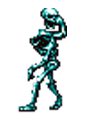
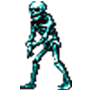
Se modifica el tamaño de los enemigos para que sea proporcional con el personaje

diff --git a/Game.js b/Game.js
@@ -3,7 +3,9 @@ window.onload = function () {
 	//El buen canvas
 	var frame = document.getElementById("canvas");
 	var graphics = frame.getContext('2d');
-	document.addEventListener("mousedown", click);
+	document.addEventListener("keydown", function(e){
+		click(e);
+	});
 
 	var points = 0;
 	var scoreTime = 0;
@@ -13,6 +15,9 @@ window.onload = function () {
 	var backImage = new Image();
 	var startEnemieSpeed = 10
 	var enemieSpeed = 10;
+
+	//HighScore
+	var highScore = 0;
 
 	//Backgrounds
 	var backDrop = {
@@ -101,6 +106,7 @@ window.onload = function () {
 
 	function draw() {
 
+		//Elementos de juego
 		graphics.clearRect(0, 0, frame.width, frame.height);
 		graphics.drawImage(backImage, 0, 0, frame.width, frame.height);
 		graphics.drawImage(backDrop.image, backDrop.x, backDrop.y);
@@ -110,31 +116,37 @@ window.onload = function () {
 		graphics.drawImage(asset1.image, asset1.x, asset1.y);
 		graphics.drawImage(asset2.image, asset2.x, asset2.y);
 		graphics.drawImage(player.image, player.x, player.y);
-		graphics.font = "bold 20px Helvetica";
+		drawEnemies();
+
+		//Texto que aparecerá en Canvas
+		graphics.font = "bold 20px Freckle Face";
 		graphics.fillStyle = "white";
 		graphics.textAlign = "center";
 		graphics.fillText("Score: " + points, frame.width / 2, 100);
-		drawEnemies();
-
+		
+		//Pintamos el HighScore
+		graphics.fillText("Best Score: " + highScore, 100, 100);
 		if (!player.alive) {
-			graphics.fillText("TryAgain", frame.width / 2, 300);
+			graphics.fillText("Press 'r' to restart" , frame.width / 2, 300);	
+			
+			//Aqui escribimos el mensaje de new Record
+			if (points > highScore) {
+				graphics.fillText("You made a new Record!!!", frame.width / 2, 400);			
+			}		
 		}
 	}
 
 
-	//Funciones para Controlar el comportamiento de player
+	//Funciones para Controlar el comportamiento de players
+	//Función del listener tambien checamos si el el jugador murió 
+	function click(e) {
 
-
-	//Función del listener
-	
-	function click() {
-		if (player.alive) {
+		if (player.alive && e.keyCode === 32) {
 			if (!player.jumping && !player.falling) {
 				player.jumping = true;
 			}
-		} else {
+		} else if(!player.alive && e.keyCode === 82 ) {
 			restartGame();
-			firstDog = true;
 			enemieSpeed = startEnemieSpeed;
 		}
 	}
@@ -174,8 +186,6 @@ window.onload = function () {
 	}
 
 	//Funciones para controlar el comportamiento de los enemigos
-
-
 	//Manage  animation
 	function manageEnemieAnimation() {
 		for (i = 0; i < enemies.length; i++) {
@@ -210,10 +220,8 @@ window.onload = function () {
 	}
 
 	//Generate packs of enemies
-
 	function generatePacksOfEnemies() {
 		var numEnemies = Math.floor(Math.random() * 6);
-		console.log(numEnemies);
 		switch (numEnemies) {
 			case 0:
 				enemies.push(new Enemie(frame.width));
@@ -266,7 +274,6 @@ window.onload = function () {
 	}
 
 	function checkPlayerCollision() {
-
 		var reduction = 30;
 		for (i = 0; i < enemies.length; i++) {
 			var testDog = enemies[i];
@@ -350,9 +357,20 @@ window.onload = function () {
 	}
 
 	function restartGame() {
+	    checkScore();
 		player.alive = true;
 		points = 0;
 		enemies = [];
+	}
+
+	function checkScore() {
+	
+		isHighScore = false
+		if (points > highScore) {			
+			highScore = points;
+			isHighScore = true;
+		}
+		return isHighScore;
 	}
 
 	//Start this shit

diff --git a/Enemies.js b/Enemies.js
@@ -5,7 +5,7 @@ var enemies = [];
 //Constructor
 function Enemie(x) {
 	this.x = x;
-	this.y = 455;
+	this.y = 475;
 	this.size = 110;
 	this.speed = 11;
 	this.image = new Image();
@@ -13,7 +13,7 @@ function Enemie(x) {
 
 //Animation of enemie
 var enemieAnimation = [];
-for (var i = 0; i < 11; i++) {
+for (var i = 0; i < 6; i++) {
 	enemieAnimation[i] = new Image();
 }
 
@@ -24,8 +24,3 @@ enemieAnimation[2].src = "Graphics/esqueleto/3.png"
 enemieAnimation[3].src = "Graphics/esqueleto/4.png"
 enemieAnimation[4].src = "Graphics/esqueleto/5.png"
 enemieAnimation[5].src = "Graphics/esqueleto/6.png"
-enemieAnimation[6].src = "Graphics/esqueleto/7.png"
-enemieAnimation[7].src = "Graphics/esqueleto/8.png"
-enemieAnimation[8].src = "Graphics/esqueleto/9.png"
-enemieAnimation[9].src = "Graphics/esqueleto/10.png"
-enemieAnimation[10].src = "Graphics/esqueleto/11.png"

diff --git a/index.html b/index.html
@@ -15,13 +15,11 @@
 
 <body>
     <canvas id="canvas" width="1000" height="640"></canvas>
+    <input type="text" placeholder="holaa">
 
     <script src="Game.js"></script>
     <script src="Player.js"></script>
     <script src="Enemies.js"></script>
-
-
-    <!-- <button  id = "lol" 3onclick="myFunction()">Click me</button> -->
 
 </body>
 

diff --git a/style.css b/style.css
@@ -1,4 +1,8 @@
 
+@font-face{
+	font-family: 'Freckle Face', cursive;
+	src:url('https://fonts.googleapis.com/css?family=Freckle+Face');
+}
 
 canvas{
 
